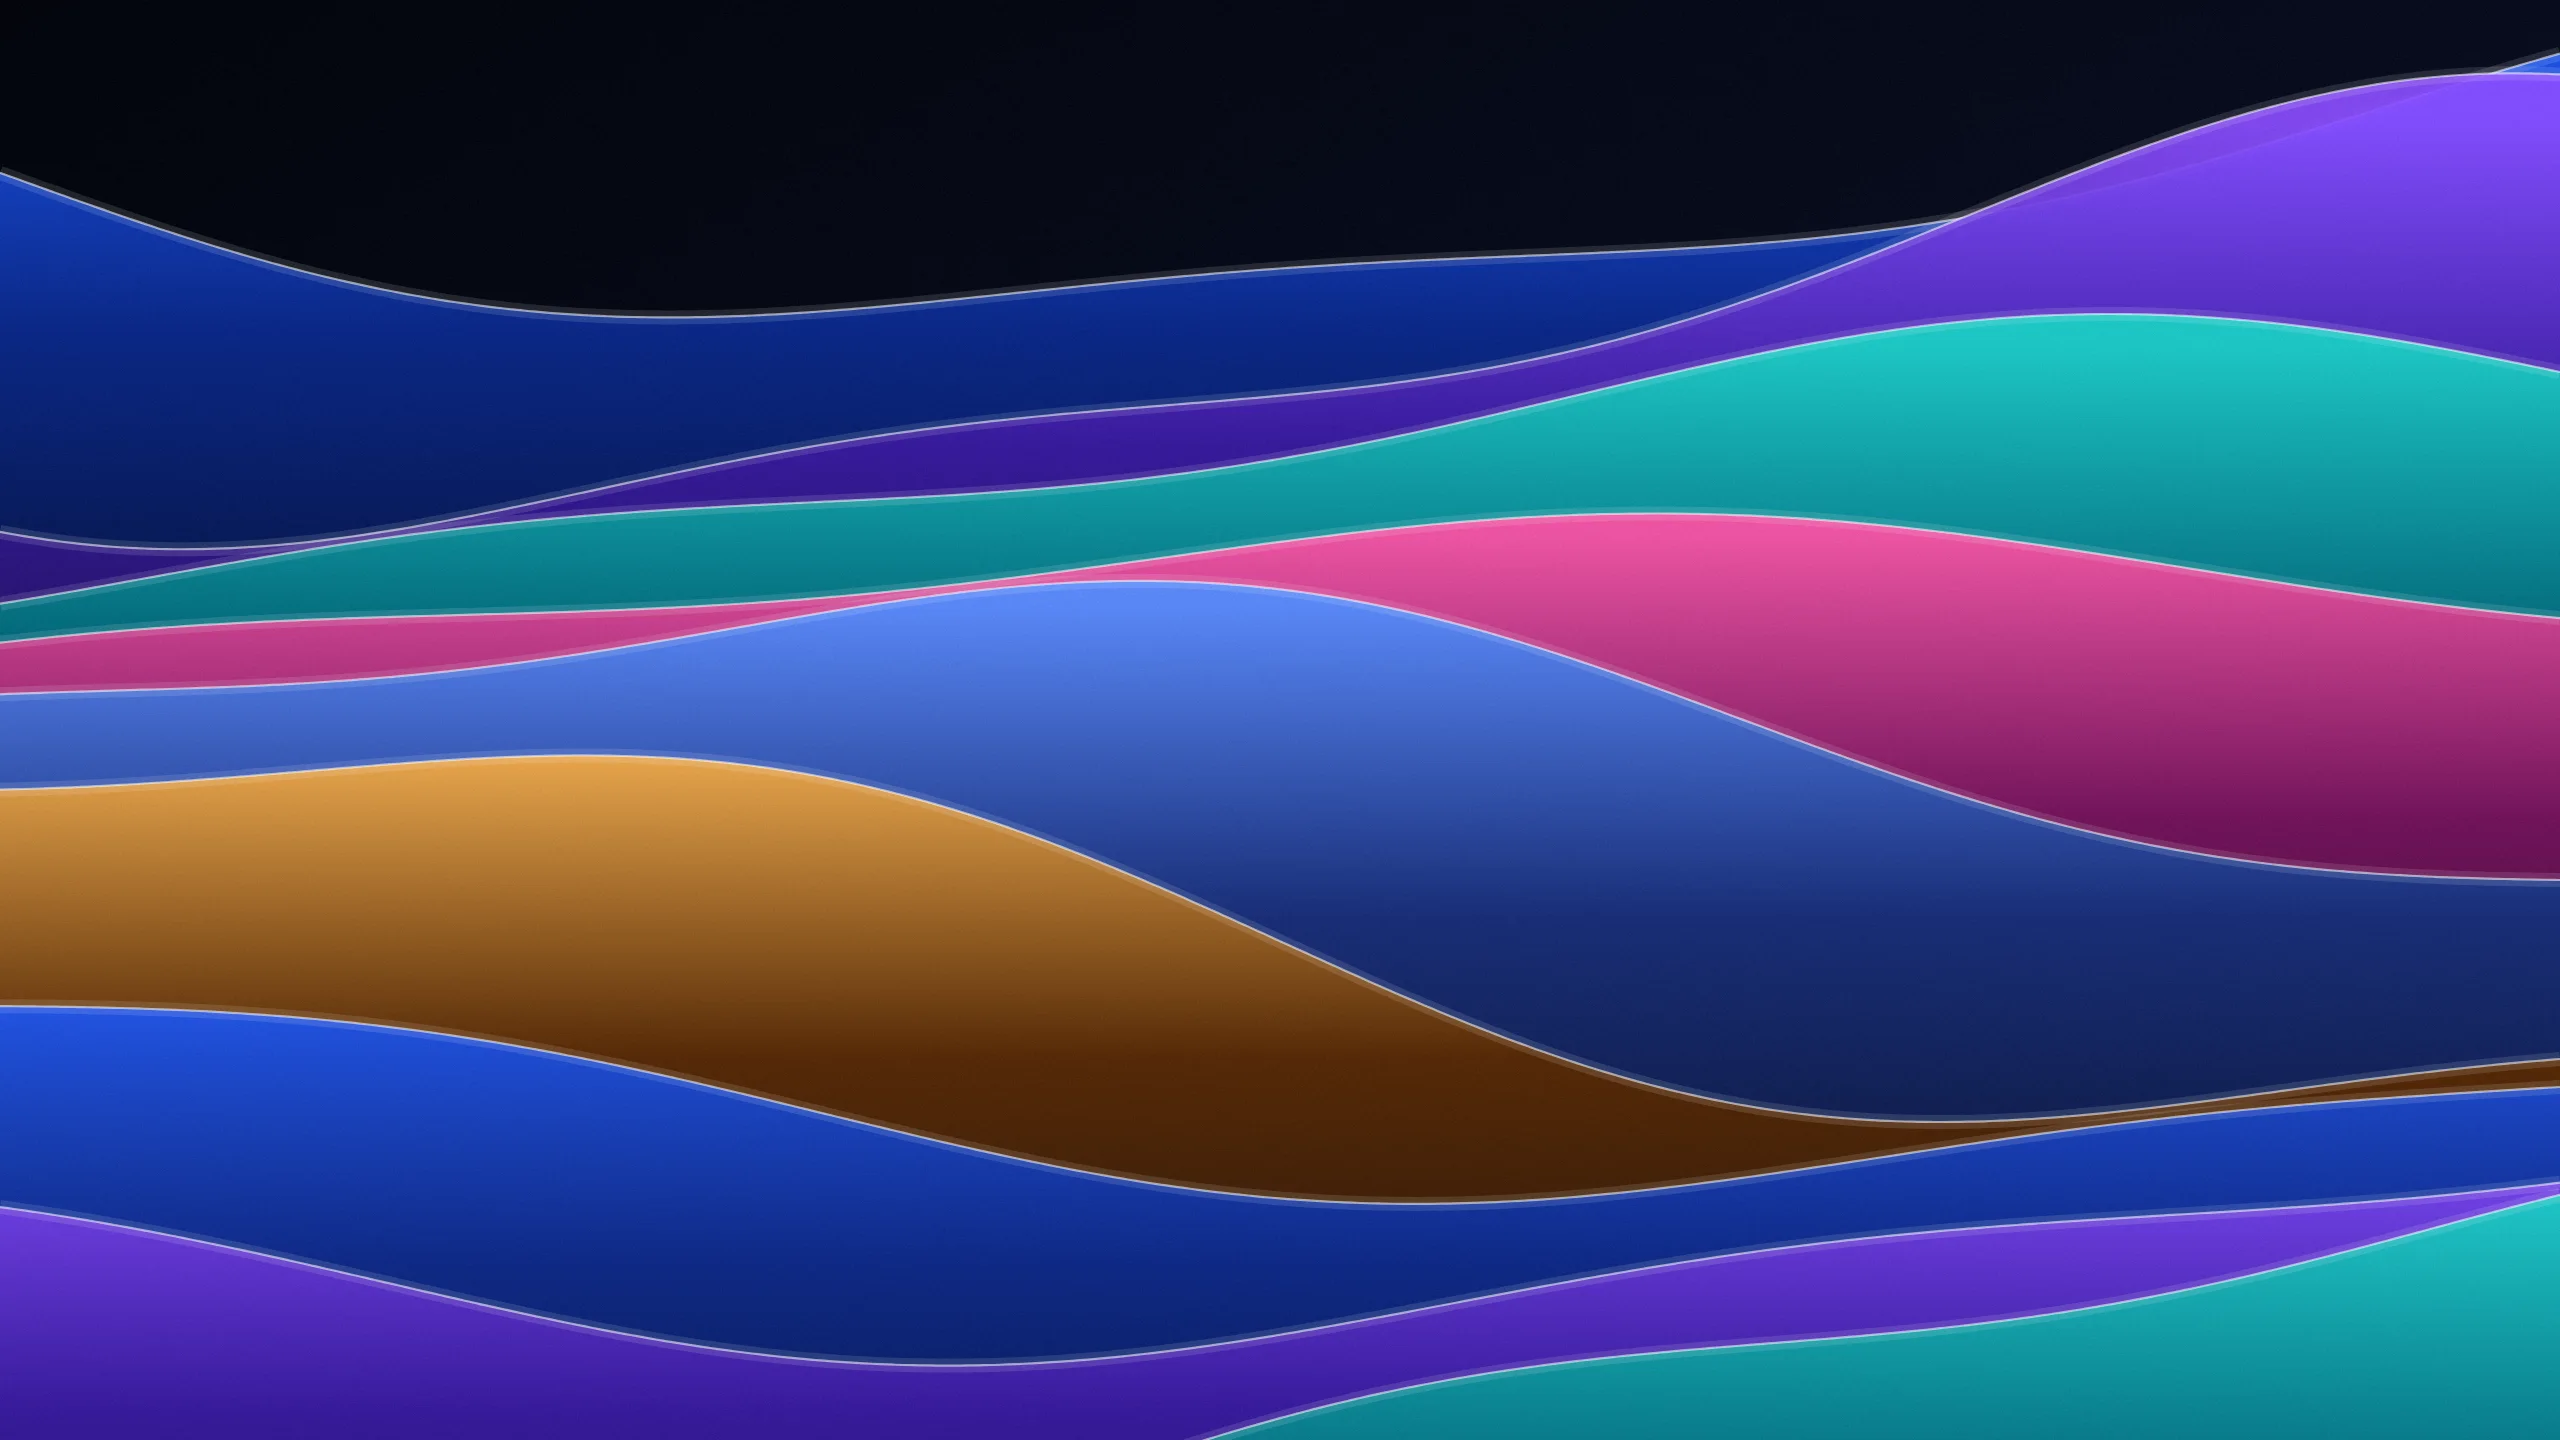
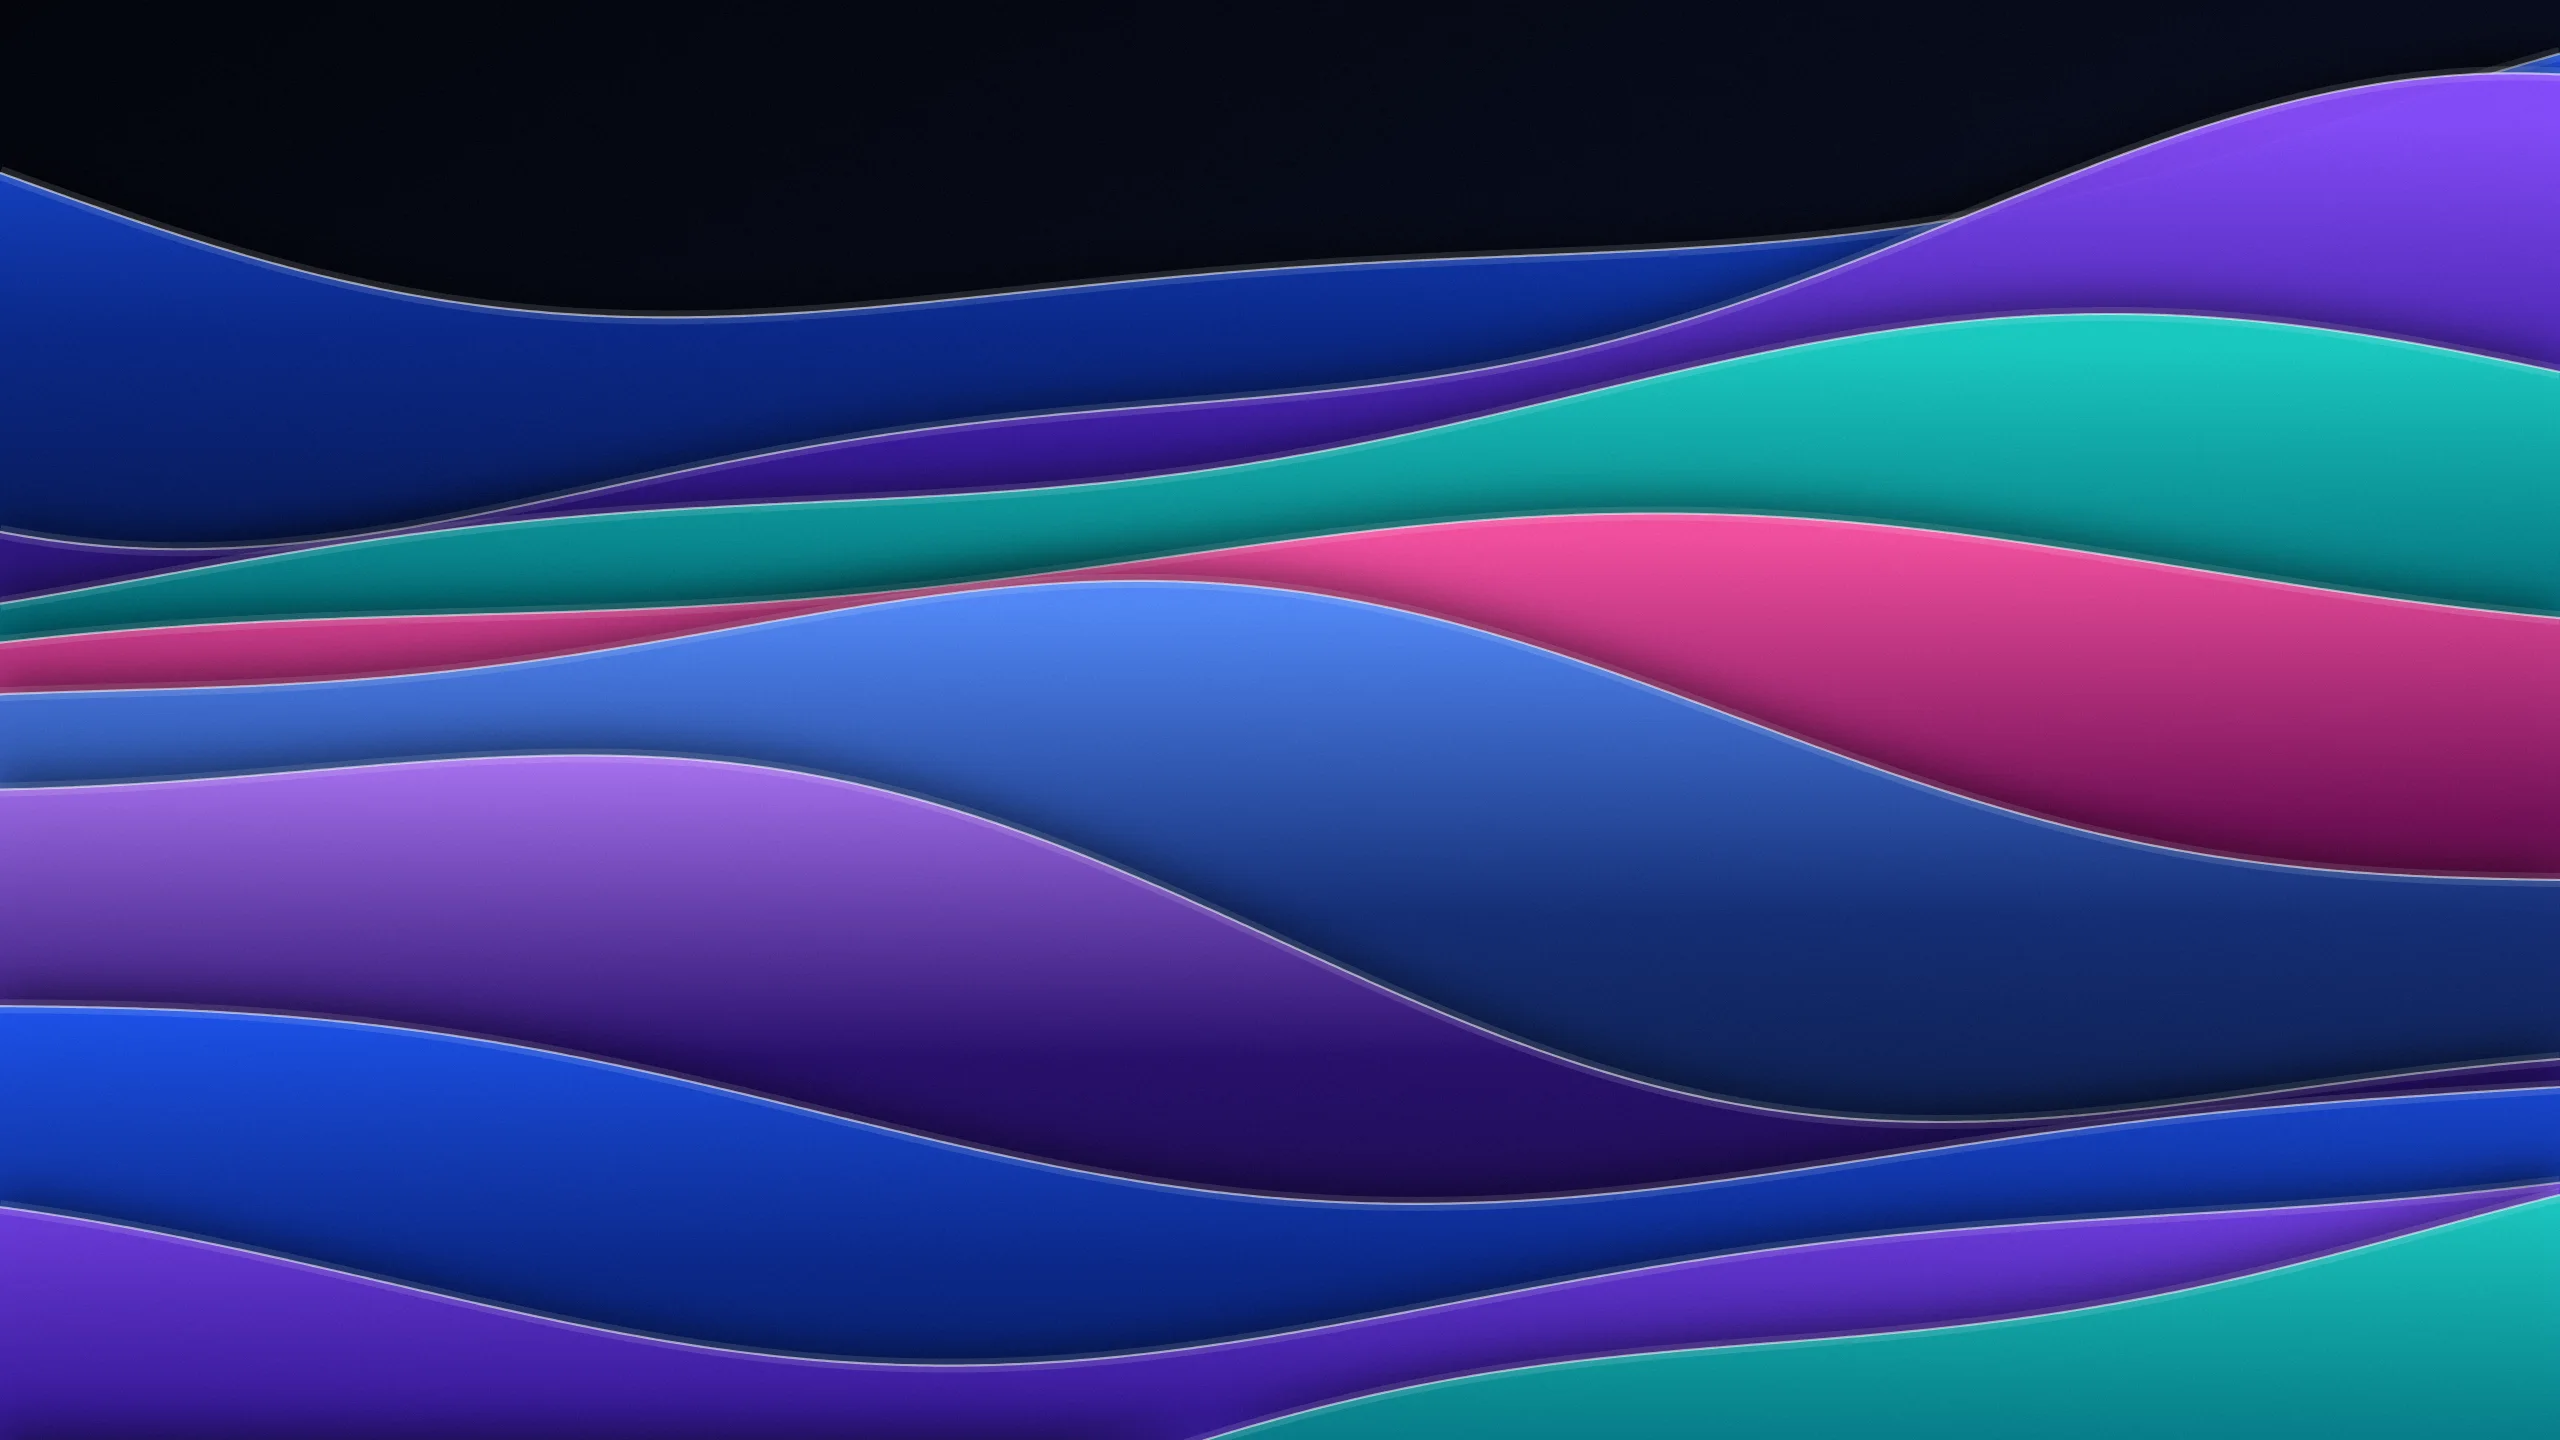
concept(liquid-glass): v2 polish - layered Ribbons, deeper bevels with a thin sharp rim and frosted core, tighter specular haze, overlay lenses, per-element resize, readability gate passes on the GPU path (text >= 4.55, glyphs >= 3.52); contrast tool measures only drawn ink; v2 film tool

diff --git a/Concepts/liquid-glass/opus-5.5/src/glass.js b/Concepts/liquid-glass/opus-5.5/src/glass.js
@@ -65,7 +65,9 @@
     for (var y = 0; y < H; y++) for (var x = 0; x < W; x++) {
       var i = y * W + x, px = x + 0.5 - cx, py = y + 0.5 - cy, s = sdf(px, py, hx, hy, R), d = s[0];
       if (d <= 0) { edge[i] = 1; continue; }
-      var u = Math.min(1, Math.max(0, (d - B * 0.30) / (B * 0.62))); edge[i] = 1 - u * u * (3 - 2 * u);
+      /* only the outer few pixels stay sharp: text near an edge must sit on frost, never on raw refracted lines */
+      var sharp = Math.min(3, B * 0.3), soft = Math.min(8, B * 0.8), u = Math.min(1, Math.max(0, (d - sharp) / (soft - sharp)));
+      edge[i] = 1 - u * u * (3 - 2 * u);
       var vx = 0, vy = 0;
       if (mag > 1) { vx = -px * (1 - 1 / mag); vy = -py * (1 - 1 / mag); }
       if (d < B) {
@@ -75,8 +77,8 @@
            band, and never from past the centre (a small lens would otherwise mirror its label) */
         m = Math.max(0, Math.min(m, 1.55 * B - d, (mag > 1 ? 0.45 : 0.78) * (Math.min(W, H) / 2 - d)));
         vx -= s[1] * m; vy -= s[2] * m;
-        var face = s[1] * L0 + s[2] * L1, lit = Math.pow(Math.max(0, face), 1.4), back = Math.pow(Math.max(0, -face), 2.2) * 0.42;
-        var line = Math.exp(-d / 1.25), glow = Math.exp(-d / (B * 0.38)) * 0.32;
+        var face = s[1] * L0 + s[2] * L1, lit = Math.pow(Math.max(0, face), 1.4), back = Math.pow(Math.max(0, -face), 2.0) * 0.62;
+        var line = Math.exp(-d / 1.25), glow = Math.exp(-d / Math.min(6, B * 0.22)) * 0.10;
         sp[i] = Math.min(1, (lit + back) * (line + glow) * lightK + line * 0.10);
         rim[i] = Math.min(1, Math.exp(-d / 2.2) + Math.exp(-d / (B * 0.5)) * 0.35);
       }
@@ -147,16 +149,20 @@
      light = specular strength. Panels and cards are frosted so text on them reads; controls are clearer; lenses are clear
      and magnify. */
   var KINDS = {
-    panel:   { bezel: 26, thick: 74, blur: 22, sat: 1.7, ca: 0,    mag: 1,    light: 1.0 },
-    card:    { bezel: 20, thick: 60, blur: 26, sat: 1.6, ca: 0,    mag: 1,    light: 0.9 },
+    panel:   { bezel: 32, thick: 80, blur: 22, sat: 1.7, ca: 0,    mag: 1,    light: 1.05 },
+    card:    { bezel: 28, thick: 70, blur: 26, sat: 1.6, ca: 0,    mag: 1,    light: 1.0 },
     control: { bezel: 13, thick: 40, blur: 5,  sat: 1.8, ca: 0.07, mag: 1,    light: 1.1 },
     track:   { bezel: 12, thick: 34, blur: 7,  sat: 1.7, ca: 0.05, mag: 1,    light: 1.0 },
     lens:    { bezel: 4,  thick: 10, blur: 0,  sat: 1.5, ca: 0.10, mag: 1.10, light: 1.35 },
     sel:     { bezel: 6,  thick: 12, blur: 0,  sat: 1,   ca: 0,    mag: 1,    light: 1.1, flat: true },
     menu:    { bezel: 18, thick: 56, blur: 30, sat: 1.5, ca: 0,    mag: 1,    light: 0.95 },
-    bar:     { bezel: 10, thick: 28, blur: 16, sat: 1.6, ca: 0,    mag: 1,    light: 0.8 },
+    bar:     { bezel: 14, thick: 34, blur: 16, sat: 1.6, ca: 0,    mag: 1,    light: 0.95 },
   };
   var glassSet = new Set();
+  /* every glass element's optics are sized to it: when the board or a panel resizes one, it is measured again */
+  var sizeWatch = window.ResizeObserver ? new ResizeObserver(function (entries) {
+    entries.forEach(function (en) { var e = en.target, k = e.getAttribute('data-lg-kind'); if (k && isGlass() && e.isConnected) mount(e, k); });
+  }) : null;
   function radiusOf(e, W, H) { var r = parseFloat(getComputedStyle(e).borderTopLeftRadius) || 0; return Math.max(0, Math.min(r, W / 2 - 0.5, H / 2 - 0.5)); }
   /* mount or refresh one glass element at its current size; returns the filter record (null on the CPU path) */
   function mount(e, kind) {
@@ -165,7 +171,8 @@
     if (W < 4 || H < 4) return null;
     var R = radiusOf(e, W, H), B = Math.max(2, Math.min(k.bezel, Math.min(W, H) / 2 - 1)), T = Math.min(k.thick, B * 2.4);
     var sig = W + 'x' + H + ':' + R.toFixed(1) + ':' + kind;
-    e.classList.add('lg-g'); e.setAttribute('data-lg-kind', kind); glassSet.add(e);
+    e.classList.add('lg-g'); e.setAttribute('data-lg-kind', kind);
+    if (!glassSet.has(e)) { glassSet.add(e); if (sizeWatch) sizeWatch.observe(e); }
     if (e.__lgSig === sig && (gpu() ? e.__lgF : true)) return e.__lgF;
     var m = buildMaps(W, H, Math.round(R), Math.round(B), Math.round(T), k.mag, k.light);
     /* the rim is a background layer of the glass itself (never a child: hosts like the title bar measure their

diff --git a/Concepts/liquid-glass/opus-5.5/src/glass.css b/Concepts/liquid-glass/opus-5.5/src/glass.css
@@ -21,8 +21,8 @@ html[data-lg="on"][data-theme="glass-dark"]:not(#lgz) {
   --accent-orange: #FFB15C; --accent-warning: #FFD06E; --accent-error: #FF8A8A;
   --graph-passed: #5BE38F; --graph-failed: #FF8A8A; --graph-running: #FFB15C; --graph-planning: #97A6FF; --graph-gating: #FF86C2; --graph-pending: rgba(217, 222, 232, .6);
   --background: #04060d; --surface: rgba(12, 16, 30, .46); --surface-elevated: rgba(18, 22, 38, .62);
-  --lg-tint-panel: rgba(8, 11, 24, .52); --lg-tint-card: rgba(8, 11, 24, .56); --lg-tint-bar: rgba(8, 11, 24, .50);
-  --lg-tint-menu: rgba(10, 13, 26, .66); --lg-tint-lens: rgba(255, 255, 255, .07); --lg-tint-ctl: rgba(255, 255, 255, .07);
+  --lg-tint-panel: rgba(7, 10, 22, .66); --lg-tint-card: rgba(7, 10, 22, .70); --lg-tint-bar: rgba(7, 10, 22, .62);
+  --lg-tint-menu: rgba(10, 13, 26, .66); --lg-tint-lens: rgba(255, 255, 255, .05); --lg-tint-ctl: rgba(255, 255, 255, .07);
   --lg-fill: rgba(255, 255, 255, .075); --lg-fill-hover: rgba(255, 255, 255, .13); --lg-fill-press: rgba(255, 255, 255, .18);
   --lg-line: rgba(255, 255, 255, .10);
   --lg-edge-top: rgba(255, 255, 255, .30); --lg-edge-bot: rgba(0, 0, 0, .28); --lg-hl: .95;
@@ -39,7 +39,7 @@ html[data-lg="on"][data-theme="glass-light"]:not(#lgz) {
   --graph-passed: #0B6A2E; --graph-failed: #BE1F2A; --graph-running: #A04B00; --graph-planning: #3D50D6; --graph-gating: #B0216B; --graph-pending: rgba(38, 44, 56, .45);
   --background: #eef1f6; --surface: rgba(255, 255, 255, .5); --surface-elevated: rgba(255, 255, 255, .7);
   --lg-tint-panel: rgba(255, 255, 255, .56); --lg-tint-card: rgba(255, 255, 255, .62); --lg-tint-bar: rgba(255, 255, 255, .58);
-  --lg-tint-menu: rgba(255, 255, 255, .74); --lg-tint-lens: rgba(255, 255, 255, .30); --lg-tint-ctl: rgba(255, 255, 255, .4);
+  --lg-tint-menu: rgba(255, 255, 255, .74); --lg-tint-lens: rgba(255, 255, 255, .16); --lg-tint-ctl: rgba(255, 255, 255, .4);
   --lg-fill: rgba(12, 15, 21, .055); --lg-fill-hover: rgba(12, 15, 21, .09); --lg-fill-press: rgba(12, 15, 21, .13);
   --lg-line: rgba(12, 15, 21, .09);
   --lg-edge-top: rgba(255, 255, 255, .9); --lg-edge-bot: rgba(30, 45, 90, .14); --lg-hl: 1;
@@ -132,6 +132,7 @@ html[data-lg="on"][data-theme^="glass"]:not(#lgz) #activityBar .icon .symbol {
   -webkit-backdrop-filter: none !important; backdrop-filter: none !important; background: transparent !important; box-shadow: none !important; border: 0 !important;
   border-radius: var(--pm-ctl-r) !important; color: var(--text-secondary) !important; position: relative; z-index: 6;
 }
+html[data-lg="on"][data-theme^="glass"]:not(#lgz) #activityBar .icon { opacity: 1 !important; }
 html[data-lg="on"][data-theme^="glass"]:not(#lgz) #activityBar .icon:hover .symbol { background: var(--lg-fill-hover) !important; color: var(--text-primary) !important; }
 html[data-lg="on"][data-theme^="glass"]:not(#lgz) #activityBar .icon[data-lg-current] .symbol { color: var(--lg-on-sel) !important; background: transparent !important; }
 html[data-lg="on"][data-theme^="glass"]:not(#lgz) #activityBar :is(.d-abind) { opacity: 0 !important; }
